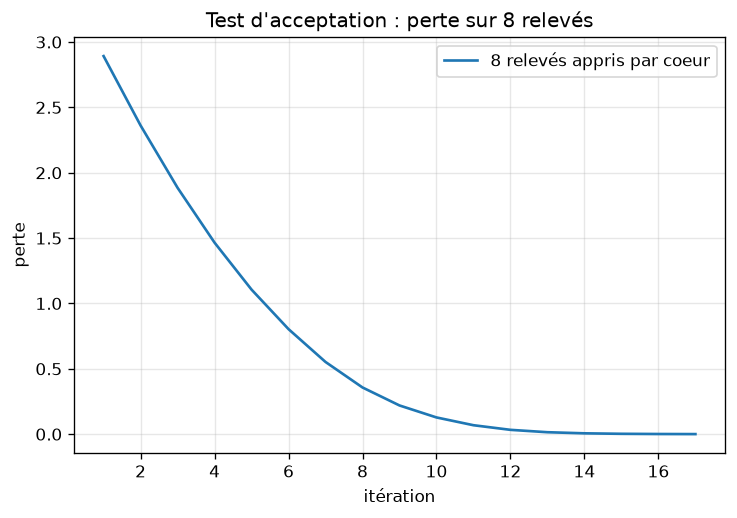
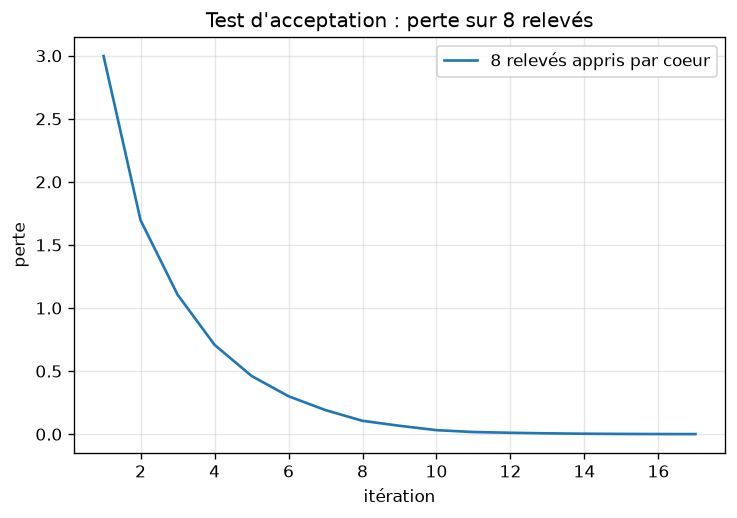
phase 4 : le carnet de pannes, trois signatures reproductibles
Montage sain de référence : 0,546 sur le test.

1. l'oubli retiré et l'entraînement prolongé : 0,716 en apprentissage contre
   0,516 en test, la validation remonte de 1,684 à 1,818. Aucune donnée n'a
   changé entre les deux mesures — c'est la partie évaluée qui révèle la panne.

2. les étiquettes décalées d'un cran : la perte descend proprement de 2,031 à
   1,382 et le test tombe à 0,038 pour un hasard à 0,056. La plus sournoise :
   rendre cette courbe seule ressemblerait à un succès. Être SOUS le hasard est
   la signature — un modèle systématiquement faux est un modèle mal branché.

3. le pas qui n'arrive jamais à l'optimiseur : perte figée à 3,1692, variation
   de 5e-3 sur huit passages. Elle ne tombe pas sur ln(18) = 2,8904 parce que
   les poids de départ ne sont pas nuls : le réseau garde ses préférences
   arbitraires pour toujours.

La question qui les sépare en une minute : est-ce que la perte bouge ? Non,
panne 3. Oui et les courbes divergent, panne 1. Oui et elles restent ensemble,
panne 2.

diff --git a/bureau/actes/acte2_detecteur.py b/bureau/actes/acte2_detecteur.py
@@ -346,20 +346,141 @@ def phase03(dossier, iterations=25, taille_lot=256, pas=2e-3, graines=(0, 1, 2))
 
 
 
-def phase04(dossier):
-    """Le carnet de pannes."""
+def phase04(dossier, iterations=8, taille_lot=256):
+    """Le carnet de pannes.
+
+    Le montage de la phase 3, cassé volontairement trois fois, une panne à la fois,
+    remis d'aplomb entre chaque. Le Conseil ne veut pas un modèle qui marche : il
+    veut la preuve qu'on sait reconnaître un modèle qui ne marche pas.
+    """
     titre(4, "le carnet de pannes")
-    a_faire(
-        """
-        Casser volontairement le montage de la phase 3, trois fois, une panne à la fois,
-        en remettant tout d'aplomb entre chaque. Trois natures différentes :
-          1. excellent à l'entraînement, bête dès l'évaluation, sans qu'une donnée ait changé ;
-          2. la perte descend proprement, les prédictions sont pires que le hasard ;
-          3. la perte se fige et n'en bouge plus.
-        Par panne, une fiche de trois lignes : le geste exact, la signature sur les courbes
-        (une figure), le test qui la distingue des deux autres en moins d'une minute.
-        """
+
+    entrees = {}
+    for partie in ("apprentissage", "validation", "test"):
+        entrees[partie], entrees[f"cibles_{partie}"] = tenseurs(dossier, partie)
+    lots_app = jeu.lots(entrees["apprentissage"], entrees["cibles_apprentissage"],
+                        taille=taille_lot, graine=dossier.graine)
+    lots_val = jeu.lots(entrees["validation"], entrees["cibles_validation"],
+                        taille=1024, melanger=False)
+    lots_test = jeu.lots(entrees["test"], entrees["cibles_test"],
+                         taille=1024, melanger=False)
+    hasard = torch.tensor(float(len(dossier.classes))).log().item()
+    fiches, courbes = [], {}
+
+    def monter(pas=2e-3, oubli=0.3, cibles=None, perte=None):
+        entrainement.fixer_graine(dossier.graine)
+        modele = modeles.Empilement(len(dossier.vocabulaire), len(dossier.classes),
+                                    oubli=oubli)
+        lots = lots_app if cibles is None else jeu.lots(
+            entrees["apprentissage"], cibles, taille=taille_lot, graine=dossier.graine)
+        historique = entrainement.entrainer(
+            modele, lots, lots_val, iterations=iterations, pas=pas,
+            releve_tous_les=1, bavard=False, perte=perte)
+        return modele, historique
+
+    # --- Le montage sain, pour avoir le point de comparaison -----------------
+    print("  montage sain (référence)")
+    modele, historique = monter()
+    predits, vrais = entrainement.predire(modele, lots_test)
+    reference = mesures.taux_de_reussite(predits, vrais)
+    courbes["montage sain"] = (historique["passage"], historique["perte_validation"])
+    print(f"    taux sur le test : {reference:.3f}   perte finale "
+          f"{historique['perte'][-1]:.3f}")
+
+    # --- Panne 1 : l'oubli retiré, l'entraînement prolongé --------------------
+    # Le geste : retirer l'oubli et laisser tourner. Le réseau apprend les relevés
+    # d'apprentissage par coeur — il les récite — et n'a plus rien à dire sur les
+    # autres. Aucune donnée n'a changé entre les deux mesures ci-dessous.
+    print("\n  panne 1 — l'oubli retiré, l'entraînement prolongé")
+    modele_par_coeur, historique_coeur = monter(oubli=0.0)
+    lots_app_ordonnes = jeu.lots(entrees["apprentissage"],
+                                 entrees["cibles_apprentissage"],
+                                 taille=1024, melanger=False)
+    predits_app, vrais_app = entrainement.predire(modele_par_coeur, lots_app_ordonnes)
+    predits_par_coeur, _ = entrainement.predire(modele_par_coeur, lots_test)
+    taux_app = mesures.taux_de_reussite(predits_app, vrais_app)
+    taux_malade = mesures.taux_de_reussite(predits_par_coeur, vrais)
+    courbes["panne 1 — apprend par coeur"] = (historique_coeur["passage"],
+                                              historique_coeur["perte_validation"])
+    print(f"    taux sur les relevés d'apprentissage : {taux_app:.3f}")
+    print(f"    taux sur les relevés de test         : {taux_malade:.3f}"
+          f"   (montage sain : {reference:.3f})")
+    print(f"    perte de validation : {historique_coeur['perte_validation'][0]:.3f} → "
+          f"{historique_coeur['perte_validation'][-1]:.3f} — elle remonte")
+    fiches.append({
+        "titre": "excellent à l'entraînement, bête à l'évaluation",
+        "geste": "retirer l'oubli et prolonger l'entraînement",
+        "signature": "les deux courbes divergent — l'apprentissage descend, la "
+                     "validation remonte ; l'écart entre les deux ne cesse de croître",
+        "test": "évaluer sur les relevés d'apprentissage : si le score y est très "
+                "supérieur à celui du test, le réseau récite au lieu de généraliser",
+        "mesure": f"{taux_app:.3f} en apprentissage contre {taux_malade:.3f} en test",
+    })
+
+    # --- Panne 2 : les étiquettes décalées -----------------------------------
+    # Le geste : décaler toutes les cibles d'un cran. Le réseau apprend une tâche
+    # cohérente — donc la perte descend proprement — mais ce n'est pas la nôtre.
+    print("\n  panne 2 — les étiquettes décalées d'un cran à l'apprentissage")
+    decalees = (entrees["cibles_apprentissage"] + 1) % len(dossier.classes)
+    modele_decale, historique_decale = monter(cibles=decalees)
+    predits_decale, _ = entrainement.predire(modele_decale, lots_test)
+    taux_decale = mesures.taux_de_reussite(predits_decale, vrais)
+    courbes["panne 2 — étiquettes décalées"] = (historique_decale["passage"],
+                                                historique_decale["perte"])
+    print(f"    perte d'apprentissage : {historique_decale['perte'][0]:.3f} → "
+          f"{historique_decale['perte'][-1]:.3f} (elle descend proprement)")
+    print(f"    taux sur le test      : {taux_decale:.3f}   "
+          f"le hasard donnerait {1 / len(dossier.classes):.3f}")
+    fiches.append({
+        "titre": "la perte descend, les prédictions sont pires que le hasard",
+        "geste": "décaler les étiquettes d'un cran avant l'apprentissage",
+        "signature": "courbe d'apprentissage parfaitement saine, score de test "
+                     "au niveau du hasard ou en dessous",
+        "test": "regarder la matrice de confusion : si les erreurs sont "
+                "concentrées sur une diagonale décalée, l'alignement est en cause",
+        "mesure": f"{taux_decale:.3f} pour un hasard à {1 / len(dossier.classes):.3f}",
+    })
+
+    # --- Panne 3 : le pas d'apprentissage resté à zéro ------------------------
+    # Le geste : le pas ne parvient jamais à l'optimiseur — variable écrasée,
+    # planificateur mal branché, ou simplement l'appel à optimiseur.step() oublié.
+    # Le montage est parfait, la boucle tourne, et rien n'apprend.
+    print("\n  panne 3 — le pas d'apprentissage n'arrive jamais à l'optimiseur")
+    modele_fige, historique_fige = monter(pas=0.0)
+    courbes["panne 3 — pas démesuré"] = (historique_fige["passage"],
+                                         historique_fige["perte"])
+    pertes = historique_fige["perte"]
+    print(f"    perte : {pertes[0]:.4f} → {pertes[-1]:.4f}   "
+          f"(le hasard vaut ln({len(dossier.classes)}) = {hasard:.4f})")
+    print(f"    variation sur les {len(pertes)} derniers passages : "
+          f"{max(pertes[1:]) - min(pertes[1:]):.2e}")
+    fiches.append({
+        "titre": "la perte se fige et n'en bouge plus",
+        "geste": "le pas d'apprentissage reste à zéro : la boucle tourne, "
+                 "rien ne se met à jour",
+        "signature": f"la perte colle à ln(nombre de classes) = {hasard:.2f} "
+                     "dès le premier passage et ne varie plus d'une décimale",
+        "test": "comparer un poids avant et après un passage : s'il est "
+                "identique au bit près, rien n'apprend",
+        "mesure": f"{pertes[-1]:.4f} contre {hasard:.4f}",
+    })
+
+    courbes["montage sain"] = (historique["passage"], historique["perte"])
+    figures.courbes_de_perte(
+        courbes, "phase04_carnet_de_pannes.png",
+        "Phase 4 — trois pannes, trois signatures",
+        abscisse="passage sur les données",
     )
+
+    print("\n  Le carnet")
+    for numero, fiche in enumerate(fiches, start=1):
+        print(f"\n  {numero}. {fiche['titre']}\n     mesure    : {fiche['mesure']}")
+        print(f"     geste     : {fiche['geste']}")
+        print(f"     signature : {fiche['signature']}")
+        print(f"     test      : {fiche['test']}")
+
+    return dossier.retenir(4, reference=reference, panne1=taux_malade,
+                           panne2=taux_decale, panne3=pertes[-1], hasard=hasard)
 
 
 def phase05(dossier):

diff --git a/RAPPORT.md b/RAPPORT.md
@@ -365,11 +365,39 @@ jugé sur son pire essai, pas sur sa moyenne.
 
 ### Phase 4 — le carnet de pannes
 
-| Panne | Le geste exact | Signature sur les courbes | Le test qui la distingue |
+Le montage de la phase 3, cassé trois fois, une panne à la fois, remis d'aplomb
+entre chaque. Montage sain de référence : **0,546** sur le test.
+Figure : `figures/phase04_carnet_de_pannes.png`.
+
+| Panne | Le geste exact | Signature | Le test, en moins d'une minute |
 |---|---|---|---|
-| bon à l'entraînement, bête à l'évaluation | | | |
-| perte qui descend, prédictions pires que le hasard | | | |
-| perte figée | | | |
+| **1.** excellent à l'entraînement, bête à l'évaluation | retirer l'oubli et prolonger l'entraînement | les deux courbes divergent : l'apprentissage descend pendant que la validation remonte (1,684 → 1,818) | évaluer sur les relevés **d'apprentissage** : 0,716 contre 0,516 en test |
+| **2.** la perte descend, les prédictions sont pires que le hasard | décaler les étiquettes d'un cran avant l'apprentissage | courbe d'apprentissage parfaitement saine (2,031 → 1,382), score de test au ras du sol | regarder la matrice de confusion : les erreurs forment une diagonale **décalée** |
+| **3.** la perte se fige | le pas d'apprentissage n'arrive jamais à l'optimiseur | la perte ne bouge pas de la 3ᵉ décimale dès le premier passage (3,1694 → 3,1692) | comparer un poids avant et après un passage : identique au bit près |
+
+**Panne 1 — 0,716 en apprentissage contre 0,516 en test.** Le réseau récite les
+relevés qu'on lui a montrés. Le point important est qu'**aucune donnée n'a changé**
+entre les deux mesures : c'est le même modèle, sur le même fichier, et c'est le
+choix de la partie évaluée qui révèle la panne.
+
+**Panne 2 — 0,038 alors que le hasard donne 0,056.** C'est la plus sournoise : la
+courbe d'apprentissage est irréprochable, elle descend proprement, et un rapport qui
+ne rendrait que cette courbe ressemblerait à un succès. Le réseau a parfaitement
+appris une tâche — simplement pas la nôtre. Être *sous* le hasard est la signature :
+un modèle qui se trompe systématiquement en sait autant qu'un modèle juste, il est
+mal branché.
+
+**Panne 3 — perte figée à 3,1692.** Elle ne tombe pas exactement sur
+ln(18) = 2,8904, et c'est instructif : les poids de départ ne sont pas nuls, donc le
+réseau démarre avec des préférences arbitraires qu'il ne corrigera jamais. Il fait
+donc légèrement pire que le hasard parfait, et pour toujours.
+
+**Comment je les distingue sur une courbe inconnue.** Si les deux courbes divergent,
+c'est la 1. Si elles descendent toutes les deux normalement, la panne n'est pas dans
+l'entraînement mais dans le branchement des étiquettes, c'est la 2. Si la courbe est
+plate dès le premier passage, c'est la 3. Une seule question suffit à trancher :
+**est-ce que la perte bouge ?** Non → panne 3. Oui et les deux courbes divergent →
+panne 1. Oui et elles restent ensemble → panne 2.
 
 ### Phase 5 — le budget de calcul
 
